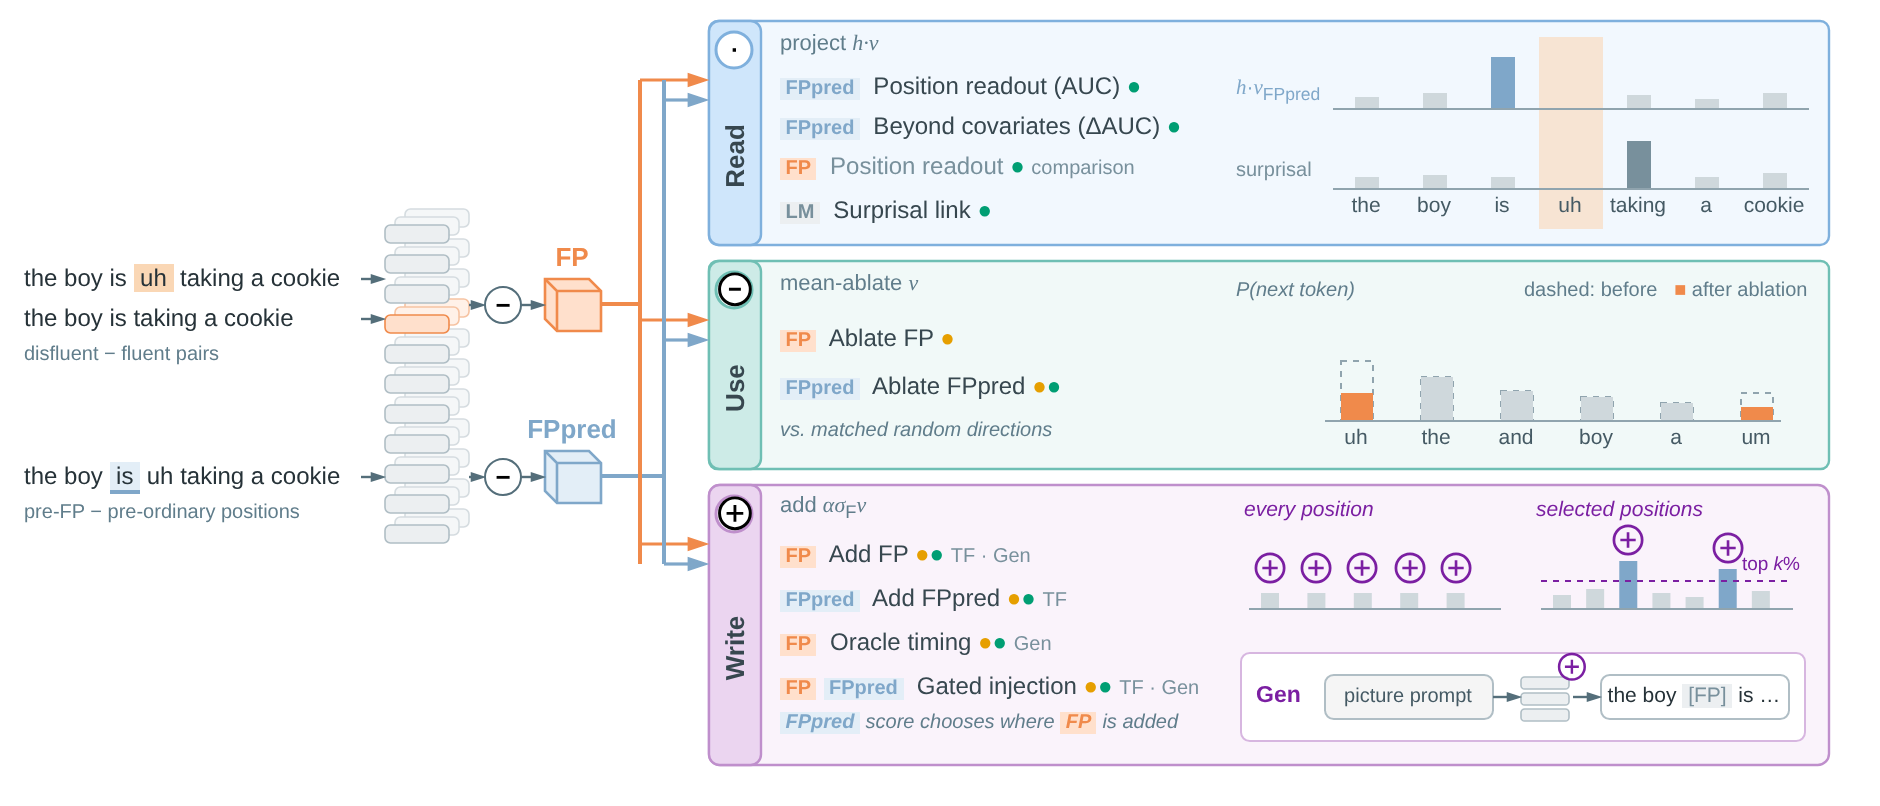
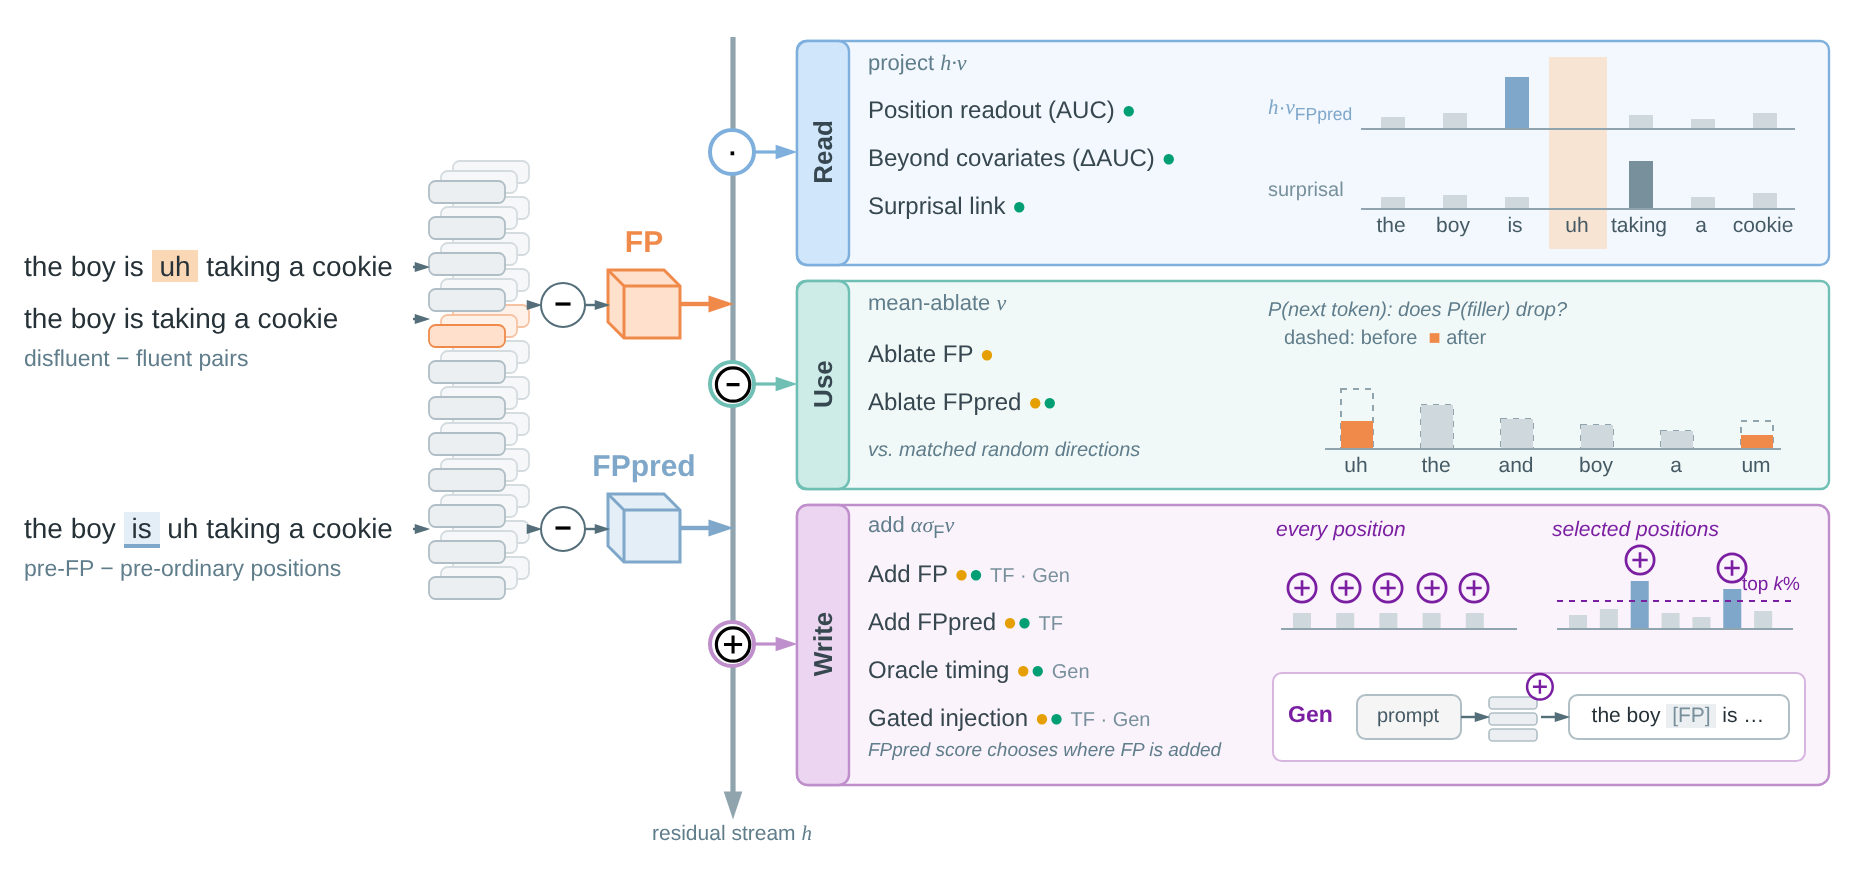
Overview figure v11: larger construction side, vertical residual stream with stage hooks
Claude-Session: https://claude.ai/code/session_01Nr8f45fQSeuNoeBXRTJGZT

Changed region(s): [[0.0, 0.0, 0.9925, 0.9615], [0.6513, 0.1861, 0.7134, 0.2171]]

diff --git a/figures/gen_overview.py b/figures/gen_overview.py
@@ -71,7 +71,7 @@ def tab(label, x, y, w):
 
 
 
-W, H = 920, 386
+W, H = 920, 400
 DARK = "#37474F"
 NOTE = "#607D8B"
 GREY_BAR = "#CFD8DC"
@@ -94,7 +94,7 @@ def chip(name):
 
 
 def row(x, y, w, chips, label, dots="", tags="", color=DARK):
-    s_ = " ".join(chip(c) for c in chips) + f"&nbsp; {label}"
+    s_ = (" ".join(chip(c) for c in chips) + "&nbsp; " if chips else "") + label
     if dots:
         s_ += f" {dots}"
     if tags:
@@ -105,44 +105,44 @@ def row(x, y, w, chips, label, dots="", tags="", color=DARK):
 # ======================= left: direction construction =======================
 uh = f'<span style="background-color:{FPHL}">&nbsp;uh&nbsp;</span>'
 pre = f'<span style="background-color:{COOL_F};border-bottom:2px solid {COOL_S}">&nbsp;is&nbsp;</span>'
-FPY, PRY = 150, 236                      # row centres of FP / FPpred
-s1 = text(f"the boy is {uh} taking a cookie", 8, FPY - 22, 170, 18, 12)
-s2 = text("the boy is taking a cookie", 8, FPY - 2, 170, 18, 12)
-text("disfluent − fluent pairs", 8, FPY + 18, 170, 14, 10, NOTE)
-s3 = text(f"the boy {pre} uh taking a cookie", 8, PRY - 9, 170, 18, 12)
-text("pre-FP − pre-ordinary positions", 8, PRY + 11, 170, 14, 10, NOTE)
+FPY, PRY = 140, 252                      # row centres of FP / FPpred
+s1 = text(f"the boy is {uh} taking a cookie", 8, FPY - 30, 196, 22, 14)
+s2 = text("the boy is taking a cookie", 8, FPY - 4, 196, 22, 14)
+text("disfluent − fluent pairs", 8, FPY + 20, 196, 16, 11.5, NOTE)
+s3 = text(f"the boy {pre} uh taking a cookie", 8, PRY - 11, 196, 22, 14)
+text("pre-FP − pre-ordinary positions", 8, PRY + 13, 196, 16, 11.5, NOTE)
 
-sx, sy, sw = 190, FPY - 40, 32
-for k, (ox_, oy_) in enumerate(((10, -8), (5, -4), (0, 0))):
+sx, sy, sw = 212, FPY - 62, 38
+for k, (ox_, oy_) in enumerate(((12, -10), (6, -5), (0, 0))):
     front = k == 2
-    for i in range(11):
-        hl = i == 3
+    for i in range(12):
+        hl = i == 4
         fill = ('#FFE0CC' if hl else '#ECEFF1') if front else ('#FFF1E8' if hl else '#F5F7F8')
         stroke = ('#F08A4B' if hl else '#B0BEC5') if front else ('#F6C3A2' if hl else '#D5DCE0')
-        v("", sx + ox_, sy + oy_ + i * 15, sw, 9,
-          f"rounded=1;arcSize=30;html=1;strokeWidth=0.8;fillColor={fill};strokeColor={stroke};")
-for s_, y in ((s1, FPY - 13), (s2, FPY + 7), (s3, PRY)):
+        v("", sx + ox_, sy + oy_ + i * 18, sw, 11,
+          f"rounded=1;arcSize=30;html=1;strokeWidth=0.9;fillColor={fill};strokeColor={stroke};")
+for s_, y in ((s1, FPY - 19), (s2, FPY + 7), (s3, PRY)):
     e(s_, None, FLOW, tp=(sx, y))
 
-m1 = v("−", 240, FPY - 9, 18, 18, "ellipse;html=1;fillColor=#FFFFFF;strokeColor=#546E7A;fontSize=13;fontStyle=1;" + FONT)
-m2 = v("−", 240, PRY - 9, 18, 18, "ellipse;html=1;fillColor=#FFFFFF;strokeColor=#546E7A;fontSize=13;fontStyle=1;" + FONT)
-e(None, m1, FLOW, sp=(sx + sw + 10, FPY))
-e(None, m2, FLOW, sp=(sx + sw + 10, PRY))
-c1 = v("", 270, FPY - 13, 28, 26, f"shape=cube;size=6;html=1;fillColor={WARM_F};strokeColor={WARM_S};strokeWidth=1.3;")
-c2 = v("", 270, PRY - 13, 28, 26, f"shape=cube;size=6;html=1;fillColor={COOL_F};strokeColor={COOL_S};strokeWidth=1.3;")
+m1 = v("−", 268, FPY - 11, 22, 22, "ellipse;html=1;fillColor=#FFFFFF;strokeColor=#546E7A;fontSize=15;fontStyle=1;" + FONT)
+m2 = v("−", 268, PRY - 11, 22, 22, "ellipse;html=1;fillColor=#FFFFFF;strokeColor=#546E7A;fontSize=15;fontStyle=1;" + FONT)
+e(None, m1, FLOW, sp=(sx + sw + 12, FPY))
+e(None, m2, FLOW, sp=(sx + sw + 12, PRY))
+c1 = v("", 302, FPY - 17, 36, 34, f"shape=cube;size=8;html=1;fillColor={WARM_F};strokeColor={WARM_S};strokeWidth=1.5;")
+c2 = v("", 302, PRY - 17, 36, 34, f"shape=cube;size=8;html=1;fillColor={COOL_F};strokeColor={COOL_S};strokeWidth=1.5;")
 e(m1, c1, FLOW)
 e(m2, c2, FLOW)
-text("<b>FP</b>", 258, FPY - 32, 52, 16, 13, WARM_S, "center")
-text("<b>FPpred</b>", 250, PRY - 32, 68, 16, 13, COOL_S, "center")
+text("<b>FP</b>", 290, FPY - 40, 60, 18, 15, WARM_S, "center")
+text("<b>FPpred</b>", 282, PRY - 40, 76, 18, 15, COOL_S, "center")
 
 # ======================= right: three stages, top to bottom =======================
-PX = 352
+PX = 396
 PW = 912 - PX
 PANELS = {"Read": (8, 112), "Use": (128, 104), "Write": (240, 140)}
 STYLE = {"Read": ("#F2F8FE", "#CFE6FB", "#7FB0DD", "·", f"project {serif('h·v')}"),
          "Use": ("#F1F9F8", "#CDEBE7", "#6FBFB4", "⊖", f"mean-ablate {serif('v')}"),
          "Write": ("#FAF3FB", "#EBD5F0", "#BF8FCC", "⊕", f"add {serif('ασ')}<sub>F</sub>{serif('v')}")}
-LIST_W = 250                 # left part of each panel: header + analyses
+LIST_W = 222                 # left part of each panel: header + analyses
 CH_X = PX + LIST_W + 16      # chart area
 CH_W = 912 - CH_X - 12
 
@@ -150,38 +150,40 @@ for name, (y, h) in PANELS.items():
     body, head, stroke, op, formula = STYLE[name]
     v("", PX, y, PW, h, f"rounded=1;arcSize=4;html=1;fillColor={body};strokeColor={stroke};strokeWidth=1.2;")
     v("", PX, y, 26, h, f"rounded=1;arcSize=20;html=1;fillColor={head};strokeColor={stroke};strokeWidth=1.2;")
-    v(op, PX + 4, y + 6, 18, 18, f"ellipse;html=1;fillColor=#FFFFFF;strokeColor={stroke};strokeWidth=1.5;fontSize=12;fontStyle=1;" + FONT)
-    text(f"<b>{name}</b>", PX + 1, y + 30, 24, h - 36, 13, DARK, "center", "horizontal=0;")
+    text(f"<b>{name}</b>", PX + 1, y + 4, 24, h - 8, 13, DARK, "center", "horizontal=0;")
     text(f"<font color='{NOTE}' style='font-size:11px'>{formula}</font>", PX + 34, y + 4, LIST_W - 20, 16, 11, DARK)
 
-# fan-in from both directions to every stage
-e(c1, None, f"endArrow=none;strokeColor={WARM_S};strokeWidth=2;", tp=(318, FPY))
-e(c2, None, f"endArrow=none;strokeColor={COOL_S};strokeWidth=2;", tp=(330, PRY))
-for colr, xoff, cy_ in ((WARM_S, 318, FPY), (COOL_S, 330, PRY)):
-    e(None, None, f"endArrow=none;strokeColor={colr};strokeWidth=2;", sp=(xoff, PANELS['Read'][0] + 30), tp=(xoff, PANELS['Write'][0] + 40))
-    for name, (y, h) in PANELS.items():
-        yy = y + 30 + (0 if colr == WARM_S else 10)
-        e(None, None, f"endArrow=blockThin;endFill=1;strokeColor={colr};strokeWidth=1.6;", sp=(xoff, yy), tp=(PX, yy))
+# residual stream: both directions enter it; each stage hooks onto it
+RX = 364
+e(None, None, "endArrow=blockThin;endFill=1;strokeColor=#90A4AE;strokeWidth=2.6;", sp=(RX, 6), tp=(RX, H - 4))
+text(f"residual stream {serif('h')}", RX - 60, H - 2, 120, 14, 10.5, NOTE, "center")
+e(c1, None, f"endArrow=blockThin;endFill=1;strokeColor={WARM_S};strokeWidth=2.2;", tp=(RX, FPY))
+e(c2, None, f"endArrow=blockThin;endFill=1;strokeColor={COOL_S};strokeWidth=2.2;", tp=(RX, PRY))
+for name, (y, h) in PANELS.items():
+    body, head, stroke, op, formula = STYLE[name]
+    cy_ = y + h / 2
+    hook = v(op, RX - 11, cy_ - 11, 22, 22,
+             f"ellipse;html=1;fillColor=#FFFFFF;strokeColor={stroke};strokeWidth=2;fontSize=13;fontStyle=1;" + FONT)
+    e(hook, None, f"endArrow=blockThin;endFill=1;strokeColor={stroke};strokeWidth=1.6;", tp=(PX, cy_))
 
 # ---- Read: analyses + two-row distribution over positions
 y0, h0 = PANELS["Read"]
 lx = PX + 34
-row(lx, y0 + 24, LIST_W, ["FPpred"], "Position readout (AUC)", P)
-row(lx, y0 + 44, LIST_W, ["FPpred"], "Beyond covariates (ΔAUC)", P)
-row(lx, y0 + 64, LIST_W, ["FP"], "Position readout", P, "comparison", "#78909C")
-row(lx, y0 + 86, LIST_W, ["LM"], "Surprisal link", P)
+row(lx, y0 + 26, LIST_W, [], "Position readout (AUC)", P)
+row(lx, y0 + 50, LIST_W, [], "Beyond covariates (ΔAUC)", P)
+row(lx, y0 + 74, LIST_W, [], "Surprisal link", P)
 words = ["the", "boy", "is", "uh", "taking", "a", "cookie"]
-dx = 34
-gx = CH_X + 46
+dx = 31
+gx = CH_X + 44
 b1, b2 = y0 + 44, y0 + 84
-v("", gx + 3 * dx + 1, y0 + 8, 32, 96, f"rounded=0;html=1;strokeColor=none;fillColor={FPHL};opacity=60;")
+v("", gx + 3 * dx + 1, y0 + 8, 29, 96, f"rounded=0;html=1;strokeColor=none;fillColor={FPHL};opacity=60;")
 hv = [6, 8, 26, 0, 7, 5, 8]
 sp_ = [6, 7, 6, 0, 24, 6, 8]
 for i in range(len(words)):
     if i == 3:
         continue
-    bar(gx + i * dx + 11, b1, hv[i], COOL_S if i == 2 else GREY_BAR, w=12)
-    bar(gx + i * dx + 11, b2, sp_[i], "#78909C" if i == 4 else GREY_BAR, w=12)
+    bar(gx + i * dx + 10, b1, hv[i], COOL_S if i == 2 else GREY_BAR, w=12)
+    bar(gx + i * dx + 10, b2, sp_[i], "#78909C" if i == 4 else GREY_BAR, w=12)
 for yy in (b1, b2):
     hline(gx, gx + len(words) * dx, yy, AXIS)
 for i, wd in enumerate(words):
@@ -191,13 +193,13 @@ text("surprisal", CH_X - 4, b2 - 16, 52, 14, 10, "#78909C")
 
 # ---- Use: next-token distribution, before (dashed) vs after ablation (filled)
 y0, h0 = PANELS["Use"]
-row(lx, y0 + 30, LIST_W, ["FP"], "Ablate FP", R)
-row(lx, y0 + 54, LIST_W, ["FPpred"], "Ablate FPpred", R + P)
+row(lx, y0 + 28, LIST_W, [], "Ablate FP", R)
+row(lx, y0 + 52, LIST_W, [], "Ablate FPpred", R + P)
 text(f"<i>vs. matched random directions</i>", lx, y0 + 78, LIST_W, 14, 10, NOTE)
 cands = ["uh", "the", "and", "boy", "a", "um"]
 before = [30, 22, 15, 12, 9, 14]
 after = [14, 22, 15, 12, 9, 7]
-base, dx, gx = y0 + 80, 40, CH_X + 50
+base, dx, gx = y0 + 84, 40, CH_X + 34
 for i in range(len(cands)):
     xx = gx + i * dx
     bar(xx, base, before[i], "none", w=16, extra="strokeColor=#90A4AE;dashed=1;strokeWidth=1;")
@@ -205,17 +207,17 @@ for i in range(len(cands)):
     bar(xx, base, after[i], WARM_S if filler else GREY_BAR, w=16)
     text(cands[i], xx - 12, base + 2, 40, 14, 10.5, "#455A64", "center")
 hline(gx - 8, gx + len(cands) * dx - 20, base, AXIS)
-text("<i>P(next token)</i>", CH_X - 4, y0 + 8, 100, 14, 10, NOTE)
-text(f"dashed: before&nbsp;&nbsp; <span style='color:{WARM_S}'>■</span> after ablation",
-     CH_X + 140, y0 + 8, 160, 14, 10, NOTE)
+text("<i>P(next token): does P(filler) drop?</i>", CH_X - 4, y0 + 8, 200, 14, 10, NOTE)
+text(f"dashed: before&nbsp; <span style='color:{WARM_S}'>■</span> after",
+     CH_X + 4, y0 + 22, 160, 14, 10, NOTE)
 
 # ---- Write: every position vs selected positions, plus free generation
 y0, h0 = PANELS["Write"]
-row(lx, y0 + 26, LIST_W, ["FP"], "Add FP", R + P, "TF · Gen")
-row(lx, y0 + 48, LIST_W, ["FPpred"], "Add FPpred", R + P, "TF")
-row(lx, y0 + 70, LIST_W, ["FP"], "Oracle timing", R + P, "Gen")
-row(lx, y0 + 92, LIST_W, ["FP", "FPpred"], "Gated injection", R + P, "TF · Gen")
-text(f"<i>{chip('FPpred')} score chooses where {chip('FP')} is added</i>", lx, y0 + 112, LIST_W, 14, 10, NOTE)
+row(lx, y0 + 26, LIST_W, [], "Add FP", R + P, "TF · Gen")
+row(lx, y0 + 50, LIST_W, [], "Add FPpred", R + P, "TF")
+row(lx, y0 + 74, LIST_W, [], "Oracle timing", R + P, "Gen")
+row(lx, y0 + 98, LIST_W, [], "Gated injection", R + P, "TF · Gen")
+text("<i>FPpred score chooses where FP is added</i>", lx, y0 + 116, LIST_W - 4, 14, 9.5, NOTE)
 
 half = (CH_W - 10) // 2
 for k, title in enumerate(("every position", "selected positions")):
@@ -244,9 +246,9 @@ for k, title in enumerate(("every position", "selected positions")):
 gy = y0 + 84
 v("", CH_X, gy, CH_W, 44, "rounded=1;arcSize=10;html=1;fillColor=#FFFFFF;strokeColor=#D7B6E0;")
 text(f"<b>Gen</b>", CH_X + 6, gy + 13, 34, 18, 11.5, PURPLE)
-pc = v("picture prompt", CH_X + 42, gy + 11, 84, 22,
+pc = v("prompt", CH_X + 42, gy + 11, 52, 22,
        "rounded=1;arcSize=20;html=1;fillColor=#F5F5F5;strokeColor=#B0BEC5;fontSize=10;fontColor=#455A64;whiteSpace=wrap;" + FONT)
-gl = CH_X + 140
+gl = CH_X + 108
 for i in range(3):
     v("", gl, gy + 12 + i * 8, 24, 6, "rounded=1;arcSize=30;html=1;strokeWidth=0.8;fillColor=#ECEFF1;strokeColor=#B0BEC5;")
 text("⊕", gl + 18, gy + 2, 16, 12, 10, PURPLE, "center", "fontStyle=1;")

diff --git a/figures/overview_prompt.md b/figures/overview_prompt.md
@@ -152,3 +152,9 @@ Write 栏挂钩前放门控菱形 `FPpred high?`，接收来自 ② 的 `externa
   - Read：h·v_FPpred 与 surprisal 两排位置分布（is / taking 峰值，uh 列高亮）。
   - Use：下一词概率分布，消融前虚框 / 后实心（filler 降低）。
   - Write：every position vs. selected positions（top k%），下方 Gen 条。
+
+## 15. v11
+
+- 左侧放大（例句 14 px、更高的三层网络、更大的方向块）。
+- 去掉条目前的 FP / FPpred / LM 标签；两个方向都汇入一条竖直残差流，Read / Use / Write 通过流上的 · ⊖ ⊕ 挂钩接入。
+- Use 图标题改为问句 "does P(filler) drop?"。
